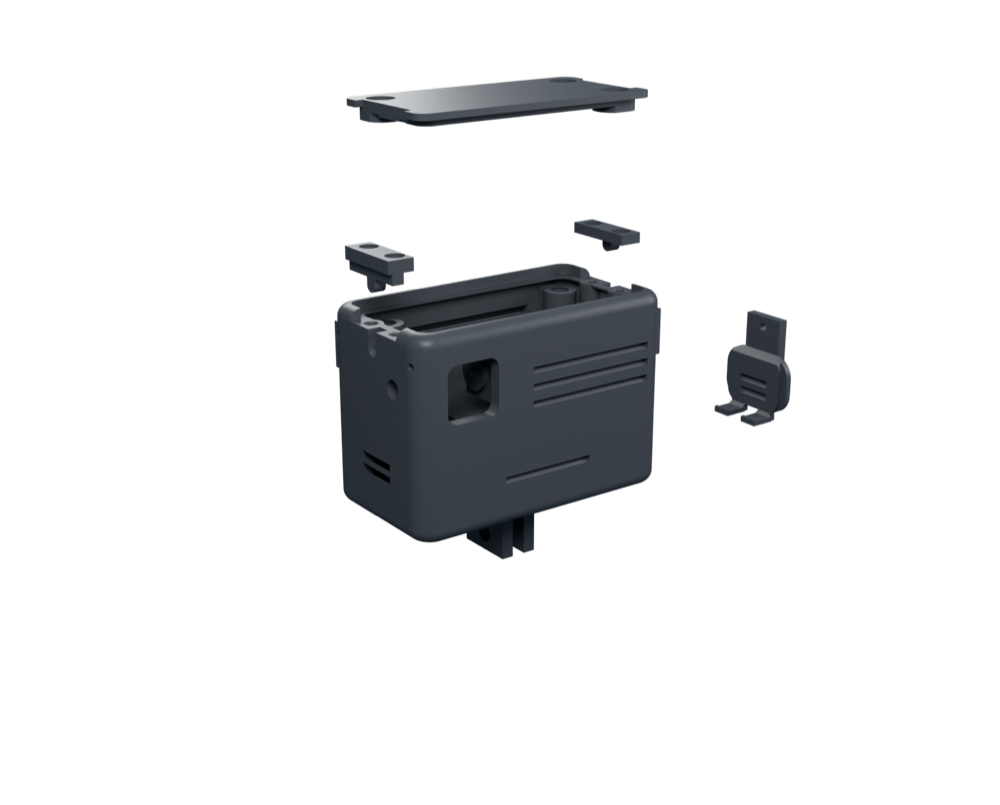
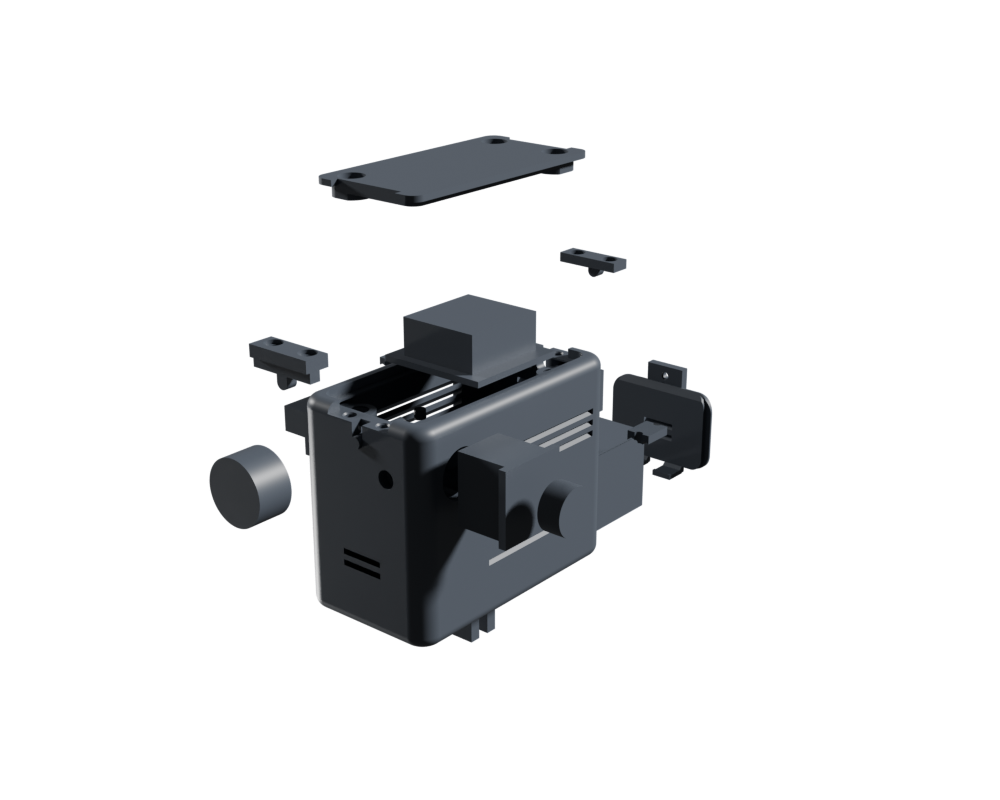
Legacy-artifact sweep: round window reaches every asset
- og.png (the social/link preview) rebuilt from the round-window render,
  same layout and copy as before
- README GIFs re-rendered from the current GLBs (turntable + fly-in, v5),
  index explainer exploded.png and the 3-sizes compare poster likewise
- Last two stale mid-sender dimension triples fixed (BUILD_GUIDE, README
  provenance table): 72 x 39 x 57
- Dead files removed: unreferenced poster_exploded_v3, old v4 GIFs, cmp v1

Changed region(s): [[0.186, 0.0938, 0.806, 0.8125]]

diff --git a/docs/viewer.html b/docs/viewer.html
@@ -75,7 +75,7 @@ const HS = {
 const SRC = {"850":"./models/sender850.glb","850x":"./models/sender850_exploded_v5.glb","mid":"./models/sender_mid.glb","mini":"./models/mini300.glb","cmp":"./models/compare.glb","fly":"./models/flyin850_v5.glb"};
 const mv = document.getElementById("mv");
 const POSTER = {"850":"poster_assembled_v3.png","850x":"poster_exploded_v4.png","mid":"poster_mid_v1.png",
-                "mini":"poster_mini_v1.png","cmp":"poster_cmp_v1.png","fly":"poster_assembled_v3.png"};
+                "mini":"poster_mini_v1.png","cmp":"poster_cmp_v2.png","fly":"poster_assembled_v3.png"};
 function setModel(k){
   window.__mvModel = k;
   document.querySelectorAll("[data-m]").forEach(b=>b.classList.toggle("on", b.dataset.m===k));

diff --git a/README.md b/README.md
@@ -6,7 +6,7 @@
 
 **Live from 4 km — 14 ms behind reality.**
 
-<img src="docs/assets/turntable_v4.gif" alt="The Sender 850 turning slowly: battery door with tab latch, T-clamp antenna anchors on both short sides, roof lid, louvres, GoPro mount." width="49%"> <img src="docs/assets/flyin_v4.gif" alt="Every component — radio, camera, battery, antenna, clamp bars, T-pieces — flying into the open case." width="49%">
+<img src="docs/assets/turntable_v5.gif" alt="The Sender 850 turning slowly: battery door with tab latch, T-clamp antenna anchors on both short sides, roof lid, louvres, GoPro mount." width="49%"> <img src="docs/assets/flyin_v5.gif" alt="Every component — radio, camera, battery, antenna, clamp bars, T-pieces — flying into the open case." width="49%">
 
 <sub>the actual gate-verified CAD — spin it and watch the parts fly home yourself in the [3D Lab](https://schoentom.github.io/skylive/viewer.html)</sub>
 
@@ -196,7 +196,7 @@ every load-bearing number:
 
 | number | value | status |
 |---|---|---|
-| case dimensions, all three senders | 71×40×56 · 71×38×48 · 59.5×39.5×48 | 🟢 executed CAD, gate-checked |
+| case dimensions, all three senders | 71×40×56 · 72×39×57 · 59.5×39.5×48 | 🟢 executed CAD, gate-checked |
 | battery | 58×30×22 (850) · 45×17.5×15.3 nominal — the real wrapped pack binds at 18.25 light width, guides opened to 18.75/16.55 (mid + Mini | 🟢 measured with calipers |
 | brass inserts | M3 Ø5×6 · M2 Ø3.2×3 | 🟢 measured |
 | XT30 wire, coax jacket | Ø2.8 · Ø3.1 | 🟢 measured |

diff --git a/build/BUILD_GUIDE.md b/build/BUILD_GUIDE.md
@@ -9,7 +9,7 @@
 *Condensed English edition of the project's German build document (`BAUANLEITUNG`, 2026-06-29,
 specs verified against HDZero documentation). Status: the electronics build below is bought,
 specified and wiring-verified on paper; the printed case passes its geometry gates in all
-**three sizes** — **850** 71 × 40 × 56 mm (flight unit) · **mid** 71 × 38 × 48 mm ·
+**three sizes** — **850** 71 × 40 × 56 mm (flight unit) · **mid** 72 × 39 × 57 mm ·
 **Mini 300** 59.5 × 39.5 × 48 mm.
 The STEP/STL files build from [`../cad/`](../cad/). **Nothing here carries a "measured" badge yet —
 the first print is a fit prototype, and a handful of values are still datasheet fallbacks.***
